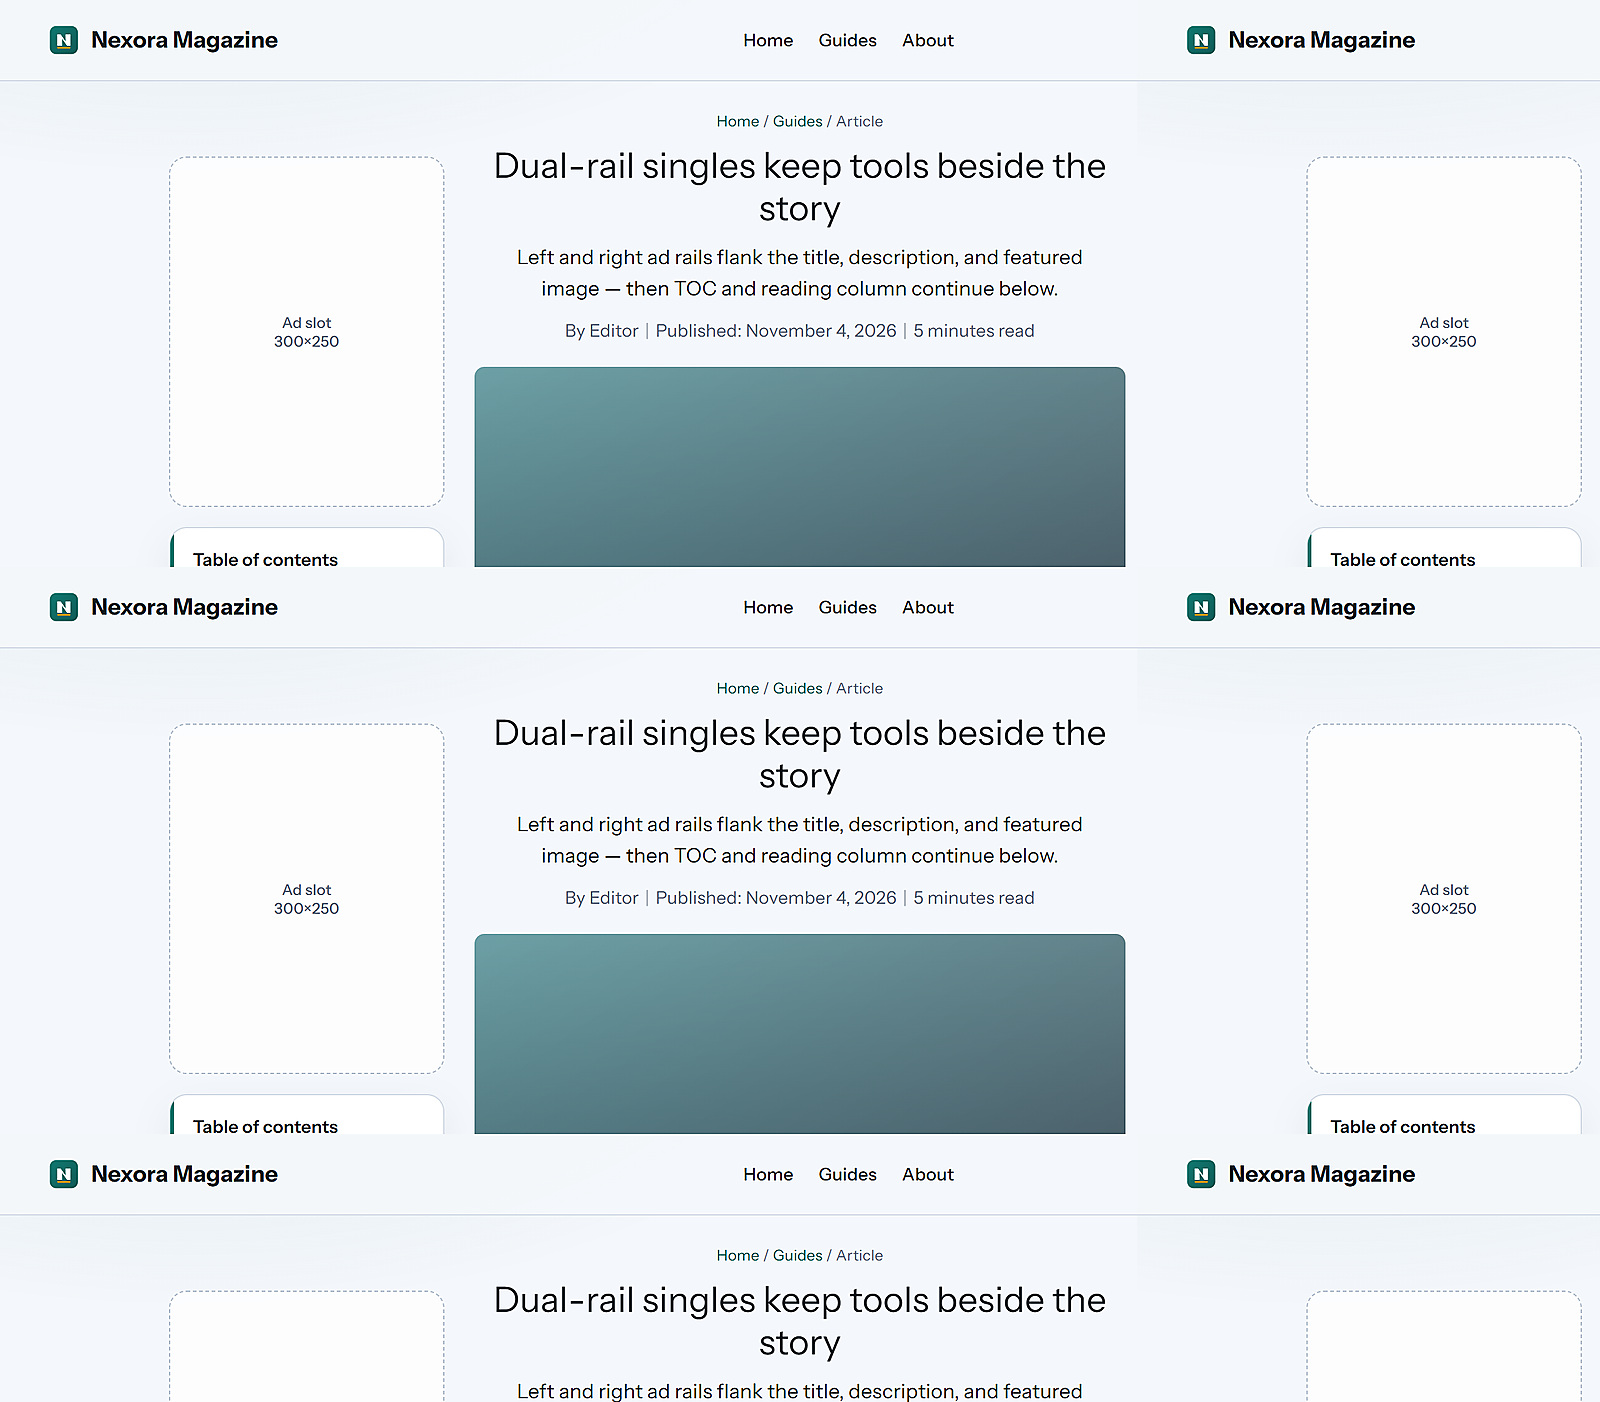
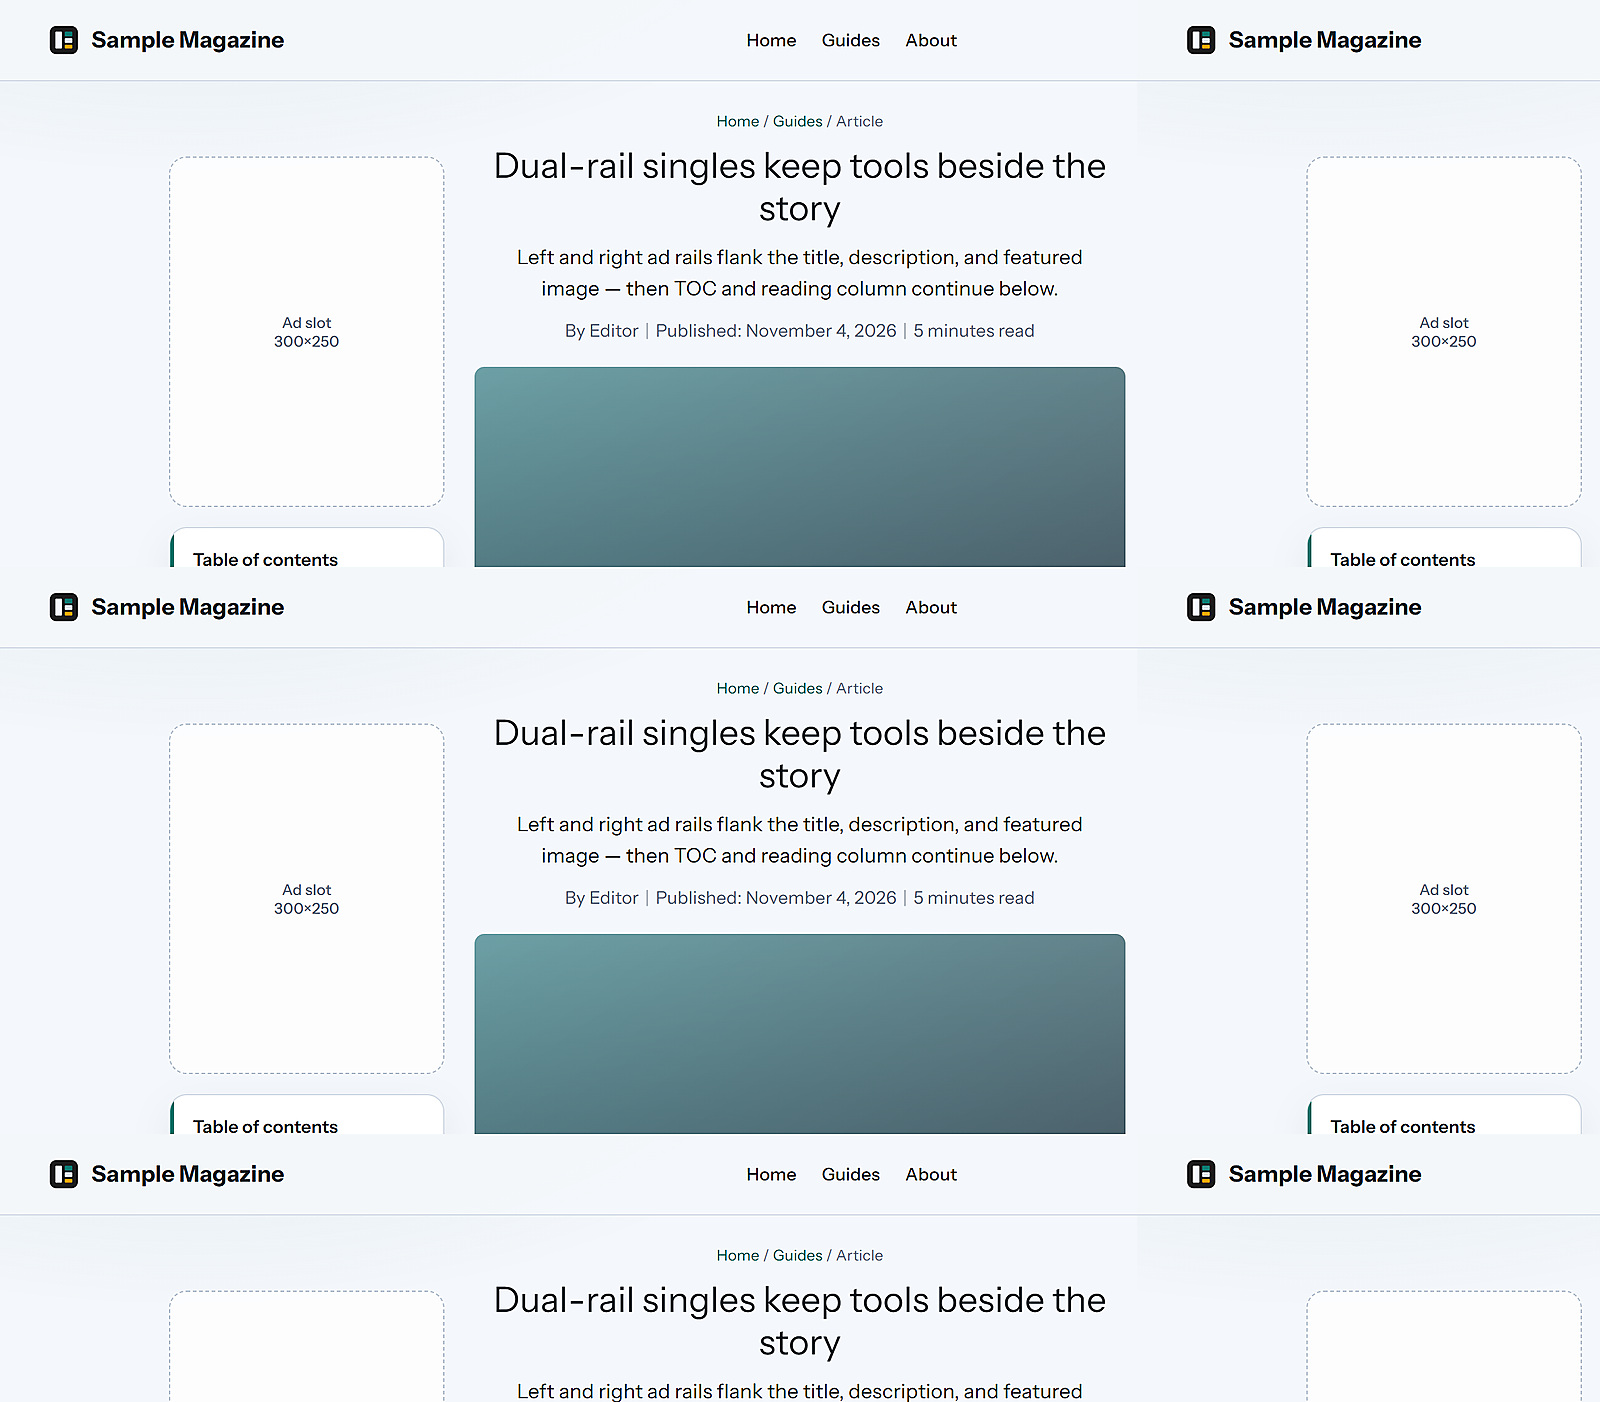
Keep Nexora mark on landing only; mocks use Site Identity demo brand.

diff --git a/index.html b/index.html
@@ -12,11 +12,11 @@
   <meta property="og:description" content="Magazine, blog, or authority site — with AdSense slots, affiliate CTAs, SEO structure, and a clean Theme Settings dashboard. Download the latest zip free.">
   <meta property="og:type" content="website">
   <meta property="og:url" content="https://nexorawp.github.io/">
-  <meta property="og:image" content="https://nexorawp.github.io/assets/hero-magazine.jpg?v=logo">
+  <meta property="og:image" content="https://nexorawp.github.io/assets/hero-magazine.jpg?v=sitebrand">
   <meta name="twitter:card" content="summary_large_image">
   <meta name="twitter:title" content="Nexora — Free WordPress Magazine &amp; Authority Blog Theme">
   <meta name="twitter:description" content="SEO-friendly magazine and authority blog theme with AdSense and affiliate monetization. Download nexora-2.0.0-nexora.zip free.">
-  <meta name="twitter:image" content="https://nexorawp.github.io/assets/hero-magazine.jpg?v=logo">
+  <meta name="twitter:image" content="https://nexorawp.github.io/assets/hero-magazine.jpg?v=sitebrand">
   <link rel="icon" href="assets/logo-mark.svg" type="image/svg+xml">
   <link rel="apple-touch-icon" href="assets/logo-mark-112.png">
   <link rel="preconnect" href="https://fonts.googleapis.com">
@@ -143,7 +143,7 @@
             <figure class="device__screen">
               <img
                 class="hero__img"
-                src="assets/hero-magazine.jpg?v=logo"
+                src="assets/hero-magazine.jpg?v=sitebrand"
                 width="1600"
                 height="1196"
                 alt="Nexora theme layout — centered nav, Latest, Top Reads, categories"
@@ -279,7 +279,7 @@
                 <span class="device__url">Single post</span>
               </div>
               <figure class="device__screen">
-                <img src="assets/article-layout.jpg?v=toc" width="2000" height="1854" alt="Nexora single post — ad rails beside title, description, and featured image" loading="lazy">
+                <img src="assets/article-layout.jpg?v=sitebrand" width="2000" height="1854" alt="Nexora single post — ad rails beside title, description, and featured image" loading="lazy">
               </figure>
             </div>
           </div>
@@ -303,7 +303,7 @@
                 <span class="device__url">Appearance → Nexora</span>
               </div>
               <figure class="device__screen">
-                <img src="assets/admin-dashboard.jpg?v=logo" width="2000" height="1322" alt="Appearance → Nexora Overview — theme version, niche, updates, ads, SEO" loading="lazy">
+                <img src="assets/admin-dashboard.jpg?v=sitebrand" width="2000" height="1322" alt="Appearance → Nexora Overview — theme version, niche, updates, ads, SEO" loading="lazy">
               </figure>
             </div>
           </div>
